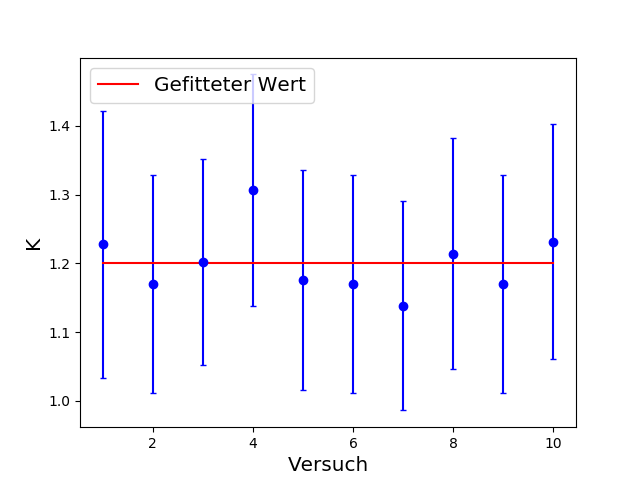
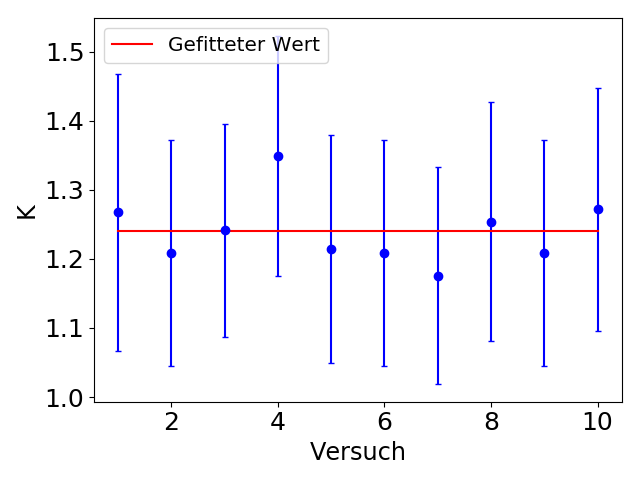
Luftdruck in schwing korrigiert

diff --git a/scripts/plot.py b/scripts/plot.py
@@ -1,4 +1,5 @@
 import matplotlib.pyplot as plt
+import matplotlib.axes as axes
 import data_manager as dm
 import math
 import fit_functions as ft
@@ -29,7 +30,8 @@ y_err_column_caption = "fk"
 x_label = "Versuch"
 y_label = "K"
 graph_format = "bo" #respectively color and line style
-axes_label_fontsize = "x-large"
+axes_label_fontsize = "xx-large"
+axes_tick_fontsize = 18
 error_bar_capsize = 2
 #fit setup
 function_to_fit = ft.constant
@@ -72,9 +74,10 @@ def f(x):
 def plot (x_values, y_values, x_label, y_label, x_err = 0, y_err = 0):
     fig, ax = plt.subplots()
     ax.errorbar(x_values, y_values, xerr=x_err, yerr=y_err, capsize = error_bar_capsize, fmt = graph_format, label = raw_graph_label)
+    ax.tick_params(labelsize = axes_tick_fontsize)
     plt.xlabel(x_label, fontsize = axes_label_fontsize)
     plt.ylabel(y_label, fontsize = axes_label_fontsize)
-    
+    plt.tight_layout() #makes room for larger label
     if (fit):
         fit_start = min(x_values)
         fit_stop = max(x_values)
@@ -88,7 +91,7 @@ def plot (x_values, y_values, x_label, y_label, x_err = 0, y_err = 0):
     if (save_plot):
         #plot_file_name = plot_folder + dataset_file_name + x_column_caption + "-" + y_column_caption + ".png"
         plot_file_name = "{}{}-{}-{}-{}.png".format(plot_folder, dataset_file_name,function_to_fit.__name__, x_column_caption, y_column_caption)
-        plt.savefig(plot_file_name)
+        plt.savefig(plot_file_name)#, bbox_inches ="tight")
     if (show_plot):
         plt.show()
 
